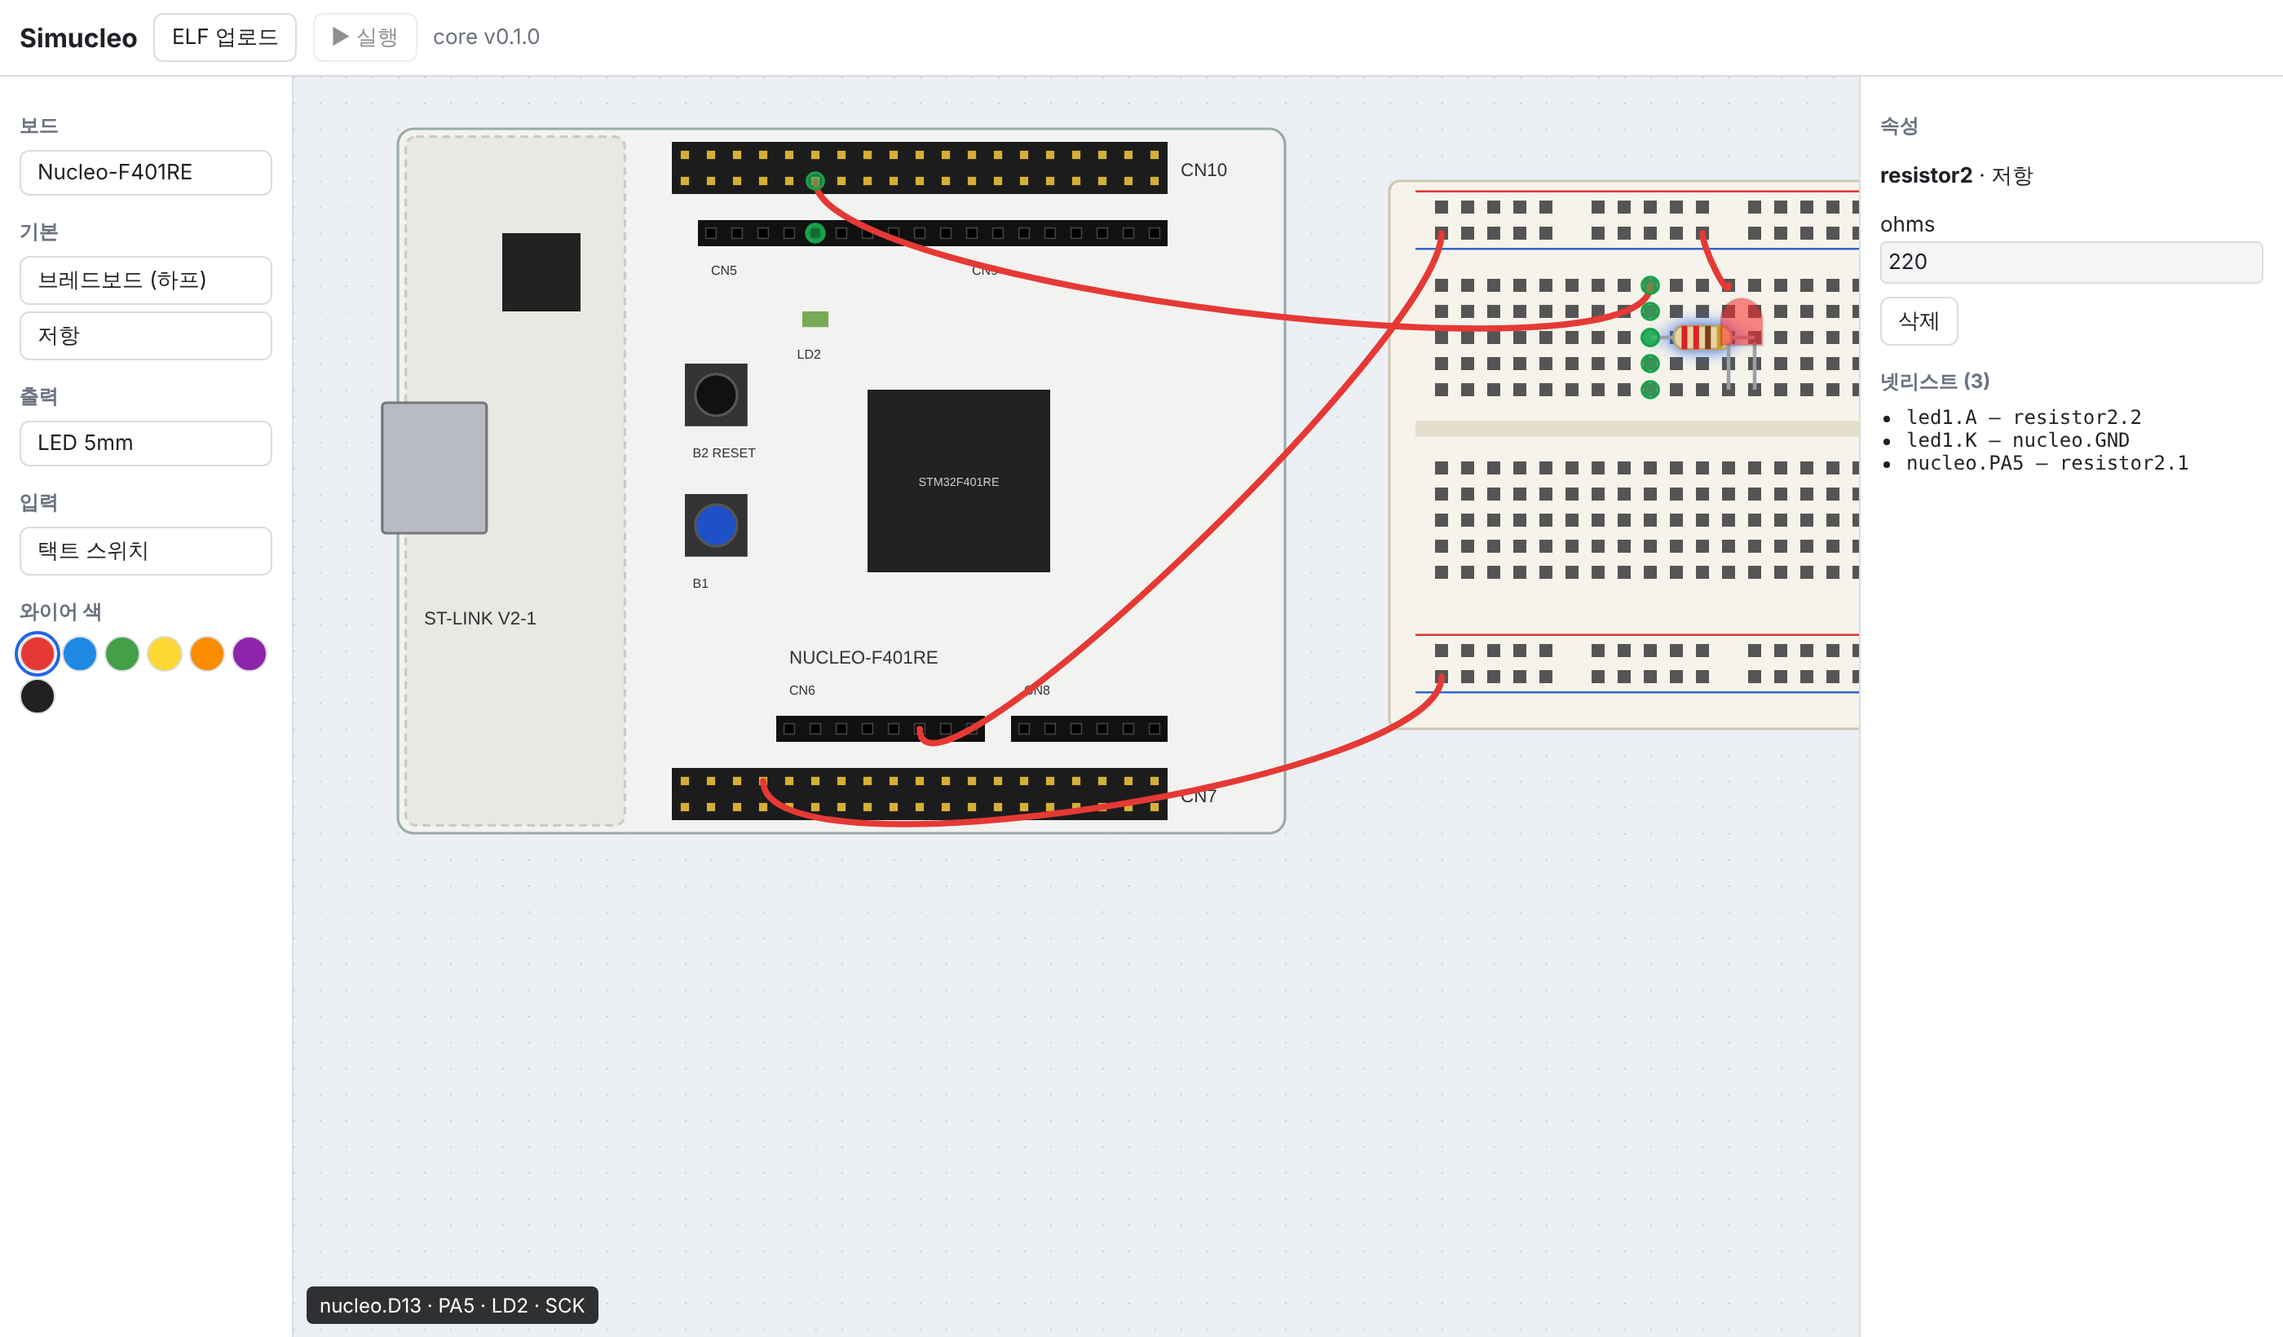
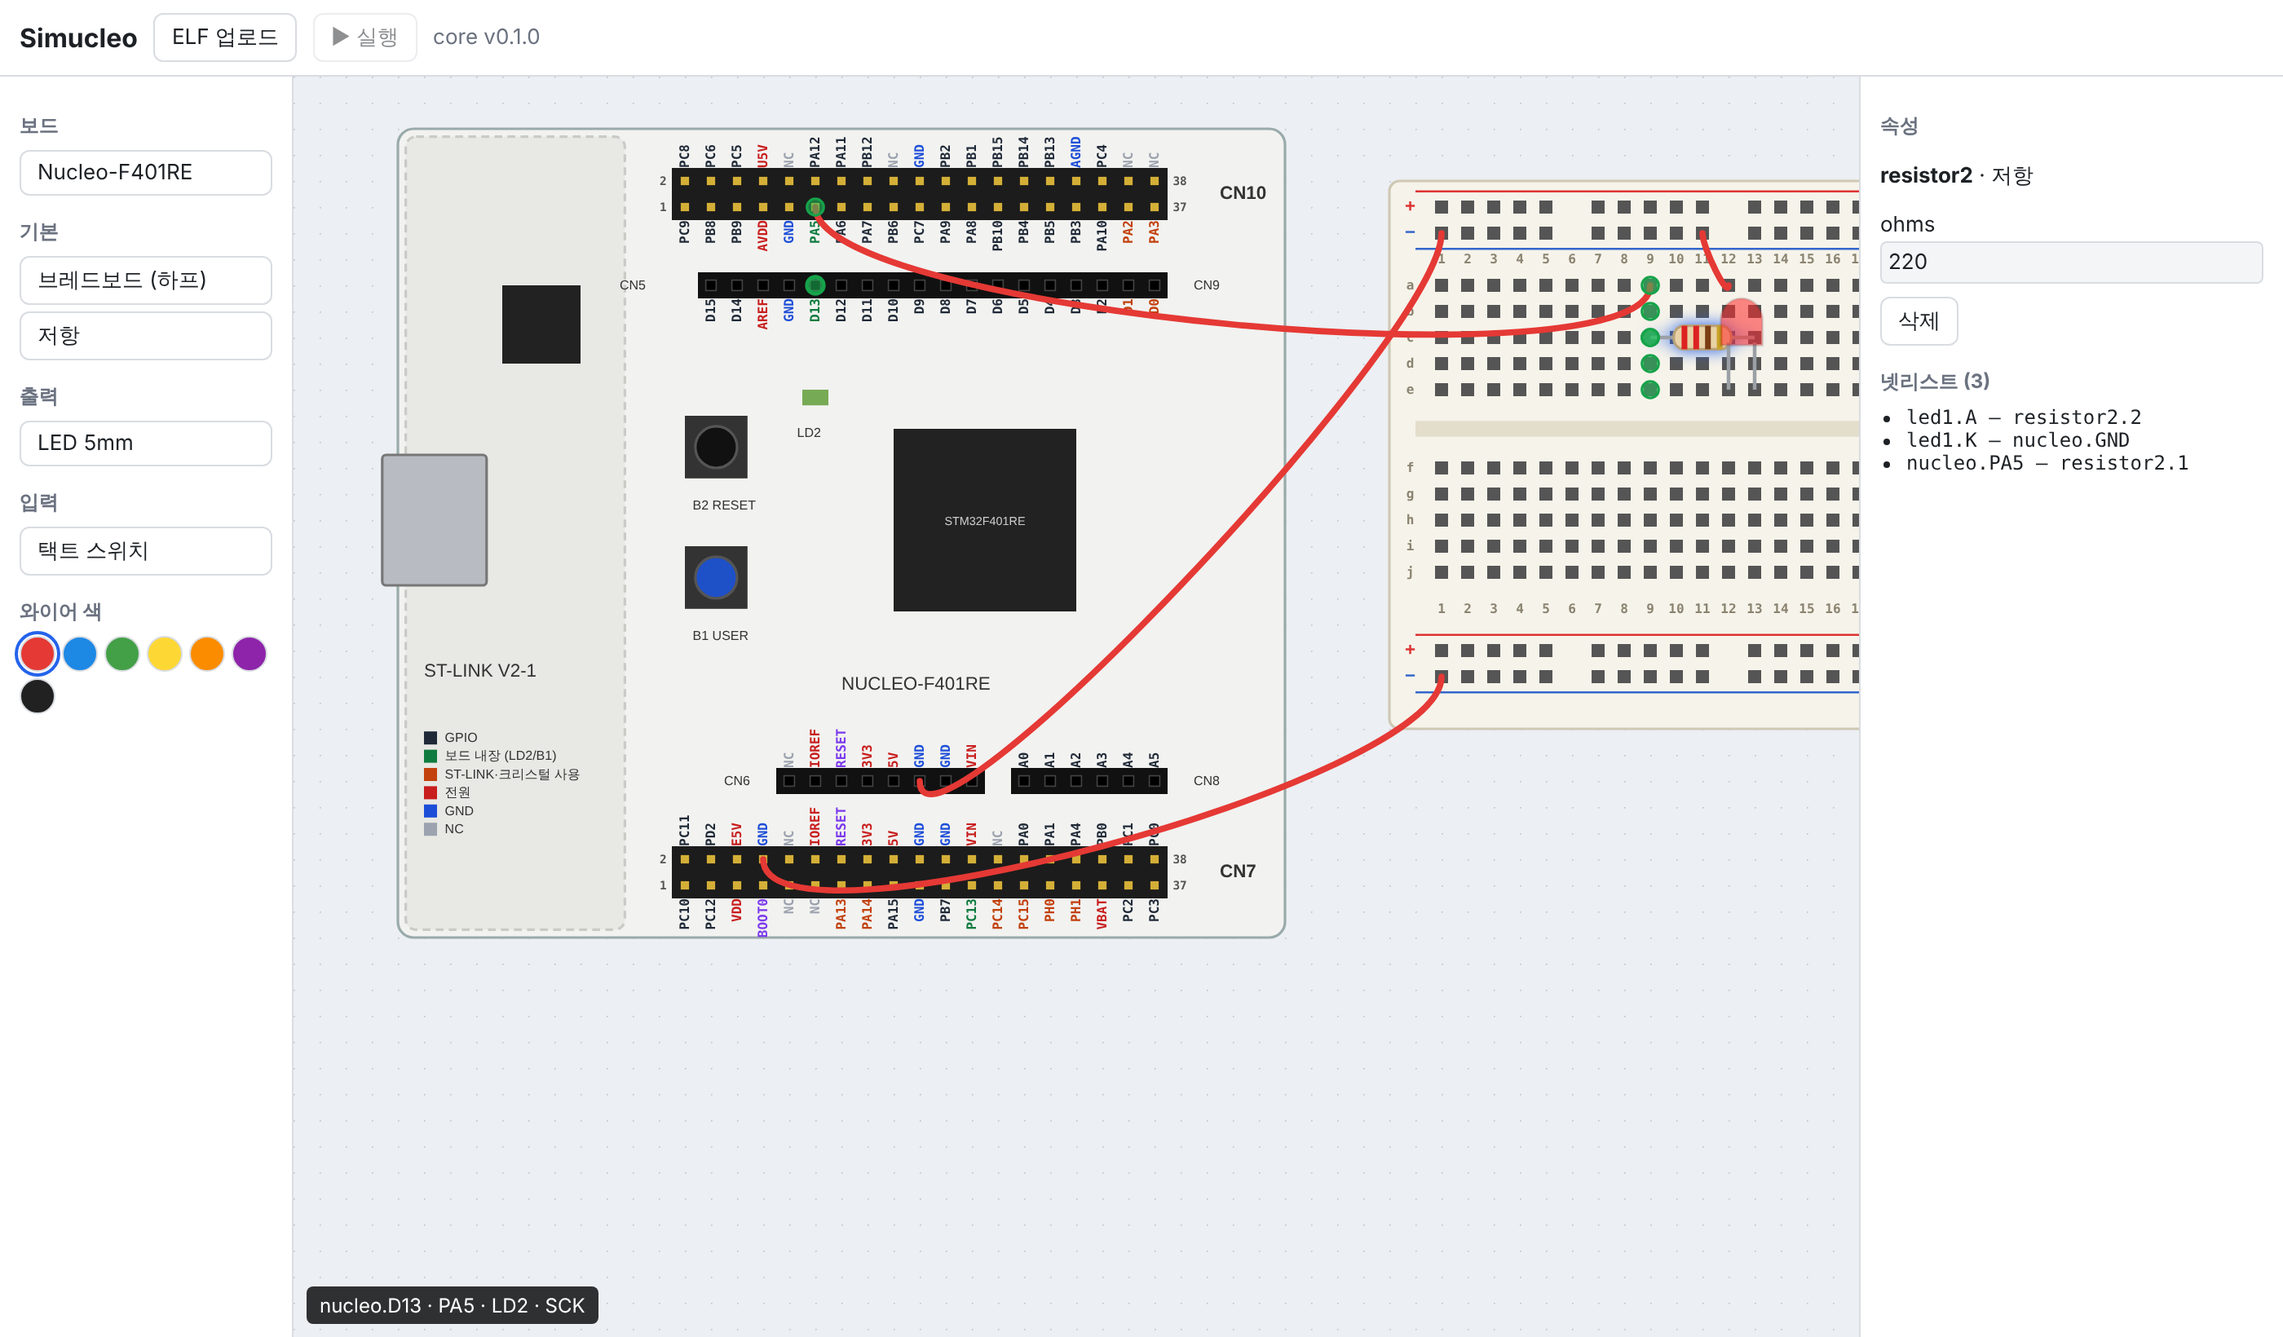
Show pin labels on the Nucleo board and breadboard
Print every header pin's name next to it like a silkscreen, so no separate
pin map is needed: MCU signal names on the Morpho headers, D/A names on the
Arduino headers, colour-coded by kind (GPIO, on-board, used by ST-LINK or
crystals, power, GND, NC) with a legend, and pin numbers at the header ends.
The breadboard gets row letters, column numbers and rail polarity marks.

Claude-Session: https://claude.ai/code/session_01UhgPm9977T5HrBfVKwY4mH

diff --git a/web/src/parts/nucleo.tsx b/web/src/parts/nucleo.tsx
@@ -69,37 +69,57 @@ const ARDUINO_BOTTOM: [string, string, string, number][] = [
 ];
 
 const W = 34;
-const H = 27;
+const H = 32;
 const X0 = 11; // grid x of header column 1
-const Y = { cn10Outer: 1, cn10Inner: 2, arduinoTop: 4, arduinoBottom: H - 4, cn7Inner: H - 2, cn7Outer: H - 1 };
+// Rows in grid steps. Gaps between rows hold the silkscreen labels.
+const Y = {
+  cn10Outer: 2, cn10Inner: 3, arduinoTop: 6,
+  arduinoBottom: H - 6, cn7Inner: H - 3, cn7Outer: H - 2,
+};
 
 const sig = (s: string) => SIGNAL_ALIAS[s] ?? s;
 const describe = (signal: string) => (NOTES[signal] ? `${signal} · ${NOTES[signal]}` : signal);
 
-function morpho(name: "CN7" | "CN10", rows: [string, string][], oddY: number, evenY: number): PinDef[] {
-  return rows.flatMap(([odd, even], i) => [
-    { id: `${name}_${2 * i + 1}`, x: X0 + i, y: oddY, signal: odd, label: `${name}-${2 * i + 1} · ${describe(odd)}` },
-    { id: `${name}_${2 * i + 2}`, x: X0 + i, y: evenY, signal: even, label: `${name}-${2 * i + 2} · ${describe(even)}` },
-  ]);
+type Side = "above" | "below";
+/** Silkscreen text printed next to each pin, and on which side of the pin. */
+const silk = new Map<string, { text: string; side: Side; signal: string }>();
+
+function morpho(
+  name: "CN7" | "CN10",
+  rows: [string, string][],
+  odd: { y: number; side: Side },
+  even: { y: number; side: Side },
+): PinDef[] {
+  return rows.flatMap(([o, e], i) =>
+    ([[2 * i + 1, o, odd], [2 * i + 2, e, even]] as const).map(([n, signal, row]) => {
+      const id = `${name}_${n}`;
+      silk.set(id, { text: signal, side: row.side, signal });
+      return { id, x: X0 + i, y: row.y, signal, label: `${name}-${n} · ${describe(signal)}` };
+    }),
+  );
 }
 
-function arduino(rows: [string, string, string, number][], y: number): PinDef[] {
-  return rows.map(([id, signal, extra, col]) => ({
-    id,
-    x: X0 + col - 1,
-    y,
-    signal,
-    label: [id.replace(/_.*/, ""), signal === id ? "" : describe(signal), extra].filter(Boolean).join(" · "),
-  }));
+function arduino(rows: [string, string, string, number][], y: number, side: Side): PinDef[] {
+  return rows.map(([id, signal, extra, col]) => {
+    const name = id.replace(/_.*/, "");
+    silk.set(id, { text: name, side, signal });
+    return {
+      id,
+      x: X0 + col - 1,
+      y,
+      signal,
+      label: [name, signal === id ? "" : describe(signal), extra].filter(Boolean).join(" · "),
+    };
+  });
 }
 
 const pins: PinDef[] = [
   // On the real board CN7's even column and CN10's odd column face the
   // Arduino headers; those are the columns that duplicate Arduino signals.
-  ...morpho("CN10", CN10, Y.cn10Inner, Y.cn10Outer),
-  ...morpho("CN7", CN7, Y.cn7Outer, Y.cn7Inner),
-  ...arduino(ARDUINO_TOP, Y.arduinoTop),
-  ...arduino(ARDUINO_BOTTOM, Y.arduinoBottom),
+  ...morpho("CN10", CN10, { y: Y.cn10Inner, side: "below" }, { y: Y.cn10Outer, side: "above" }),
+  ...morpho("CN7", CN7, { y: Y.cn7Outer, side: "below" }, { y: Y.cn7Inner, side: "above" }),
+  ...arduino(ARDUINO_TOP, Y.arduinoTop, "below"),
+  ...arduino(ARDUINO_BOTTOM, Y.arduinoBottom, "above"),
 ];
 
 // Bus every pin that shares a (normalised) signal; NC pins stay isolated.
@@ -117,6 +137,23 @@ export function nucleoSignal(pinId: string): string | undefined {
   return p && sig(p.signal!);
 }
 
+const POWER = new Set(["3V3", "5V", "VDD", "AVDD", "U5V", "E5V", "VIN", "IOREF", "VBAT"]);
+/** Pins already used by on-board circuitry (ST-LINK, crystals). */
+const BUSY = new Set(["PA2", "PA3", "PA13", "PA14", "PH0", "PH1", "PC14", "PC15"]);
+const ONBOARD = new Set(["PA5", "PC13"]);
+
+/** Colour class of a label, so students can tell power, ground and I/O apart. */
+function labelClass(signal: string): string {
+  const s = sig(signal);
+  if (s === "GND") return "lbl gnd";
+  if (POWER.has(s)) return "lbl pwr";
+  if (s === "NC") return "lbl nc";
+  if (s === "RESET" || s === "BOOT0") return "lbl ctl";
+  if (BUSY.has(s)) return "lbl busy";
+  if (ONBOARD.has(s)) return "lbl onboard";
+  return "lbl io";
+}
+
 const px = (g: number) => g * PITCH;
 const headerSpan = (cols: [number, number], y0: number, rows: number) => ({
   x: px(X0 + cols[0] - 1) - 5,
@@ -124,6 +161,39 @@ const headerSpan = (cols: [number, number], y0: number, rows: number) => ({
   width: px(cols[1] - cols[0]) + 10,
   height: px(rows - 1) + 10,
 });
+
+/** Vertical label: reads bottom-to-top, starting 0.6 grid away from the pin. */
+function PinLabel({ pin }: { pin: PinDef }) {
+  const s = silk.get(pin.id);
+  if (!s) return null;
+  const x = px(pin.x);
+  const y = px(pin.y) + (s.side === "above" ? -5 : 5);
+  return (
+    <text
+      transform={`translate(${x} ${y}) rotate(-90)`}
+      textAnchor={s.side === "above" ? "start" : "end"}
+      dominantBaseline="central"
+      className={labelClass(s.signal)}
+    >
+      {s.text}
+    </text>
+  );
+}
+
+/** Pin numbers at both ends of a Morpho header, like the real silkscreen. */
+function MorphoIndex({ name, oddY, evenY }: { name: string; oddY: number; evenY: number }) {
+  const left = px(X0 - 1) + 3;
+  const right = px(X0 + 19) - 3;
+  return (
+    <g className="pin-index">
+      <text x={left} y={px(oddY)} textAnchor="end" dominantBaseline="central">1</text>
+      <text x={left} y={px(evenY)} textAnchor="end" dominantBaseline="central">2</text>
+      <text x={right} y={px(oddY)} dominantBaseline="central">37</text>
+      <text x={right} y={px(evenY)} dominantBaseline="central">38</text>
+      <text x={px(X0 + 20.5)} y={px((oddY + evenY) / 2)} dominantBaseline="central" className="silk">{name}</text>
+    </g>
+  );
+}
 
 export const nucleoF401re: PartDef = {
   kind: "nucleo-f401re",
@@ -138,51 +208,64 @@ export const nucleoF401re: PartDef = {
       <rect width={px(W)} height={px(H)} rx={6} className="pcb" />
       {/* ST-LINK section */}
       <rect x={px(0.3)} y={px(0.3)} width={px(8.4)} height={px(H - 0.6)} rx={4} className="stlink-area" />
-      <rect x={px(-0.6)} y={px(10.5)} width={px(4)} height={px(5)} rx={1.5} className="usb" />
-      <text x={px(1)} y={px(19)} className="silk">ST-LINK V2-1</text>
-      <rect x={px(4)} y={px(4)} width={px(3)} height={px(3)} className="chip" />
+      <rect x={px(-0.6)} y={px(12.5)} width={px(4)} height={px(5)} rx={1.5} className="usb" />
+      <text x={px(1)} y={px(21)} className="silk">ST-LINK V2-1</text>
+      <rect x={px(4)} y={px(6)} width={px(3)} height={px(3)} className="chip" />
+      {/* Label colour legend */}
+      <g transform={`translate(${px(1)} ${px(23.5)})`} className="legend">
+        {[["io", "GPIO"], ["onboard", "보드 내장 (LD2/B1)"], ["busy", "ST-LINK·크리스털 사용"], ["pwr", "전원"], ["gnd", "GND"], ["nc", "NC"]].map(
+          ([cls, text], i) => (
+            <g key={cls} transform={`translate(0 ${i * 7})`}>
+              <rect width={5} height={5} y={-4} className={`swatch-${cls}`} />
+              <text x={8} className="silk small">{text}</text>
+            </g>
+          ),
+        )}
+      </g>
 
       {/* Morpho (male, 2×19) */}
       <rect {...headerSpan([1, 19], Y.cn10Outer, 2)} className="morpho" />
       <rect {...headerSpan([1, 19], Y.cn7Inner, 2)} className="morpho" />
-      <text x={px(X0 + 19)} y={px(1.8)} className="silk">CN10</text>
-      <text x={px(X0 + 19)} y={px(H - 1.2)} className="silk">CN7</text>
+      <MorphoIndex name="CN10" oddY={Y.cn10Inner} evenY={Y.cn10Outer} />
+      <MorphoIndex name="CN7" oddY={Y.cn7Outer} evenY={Y.cn7Inner} />
 
       {/* Arduino (female) */}
       <rect {...headerSpan([2, 11], Y.arduinoTop, 1)} className="arduino" />
       <rect {...headerSpan([12, 19], Y.arduinoTop, 1)} className="arduino" />
       <rect {...headerSpan([5, 12], Y.arduinoBottom, 1)} className="arduino" />
       <rect {...headerSpan([14, 19], Y.arduinoBottom, 1)} className="arduino" />
-      <text x={px(X0 + 1)} y={px(5.6)} className="silk small">CN5</text>
-      <text x={px(X0 + 11)} y={px(5.6)} className="silk small">CN9</text>
-      <text x={px(X0 + 4)} y={px(H - 5.3)} className="silk small">CN6</text>
-      <text x={px(X0 + 13)} y={px(H - 5.3)} className="silk small">CN8</text>
+      <text x={px(X0 - 1.5)} y={px(Y.arduinoTop)} dominantBaseline="central" textAnchor="end" className="silk small">CN5</text>
+      <text x={px(X0 + 19.5)} y={px(Y.arduinoTop)} dominantBaseline="central" className="silk small">CN9</text>
+      <text x={px(X0 + 2.5)} y={px(Y.arduinoBottom)} dominantBaseline="central" textAnchor="end" className="silk small">CN6</text>
+      <text x={px(X0 + 19.5)} y={px(Y.arduinoBottom)} dominantBaseline="central" className="silk small">CN8</text>
 
       {/* MCU and user I/O */}
-      <rect x={px(18)} y={px(10)} width={px(7)} height={px(7)} className="chip" />
-      <text x={px(21.5)} y={px(13.7)} className="silk chip-label">STM32F401RE</text>
-      <text x={px(15)} y={px(20.5)} className="silk">NUCLEO-F401RE</text>
-      <rect x={px(15.5)} y={px(7)} width={px(1)} height={px(0.6)} className="smd-led" />
+      <rect x={px(19)} y={px(11.5)} width={px(7)} height={px(7)} className="chip" />
+      <text x={px(22.5)} y={px(15.2)} className="silk chip-label">STM32F401RE</text>
+      <text x={px(17)} y={px(21.5)} className="silk">NUCLEO-F401RE</text>
+      <rect x={px(15.5)} y={px(10)} width={px(1)} height={px(0.6)} className="smd-led" />
       <rect
-        x={px(15.5)} y={px(7)} width={px(1)} height={px(0.6)}
+        x={px(15.5)} y={px(10)} width={px(1)} height={px(0.6)}
         className="smd-led-glow" style={{ opacity: visual.brightness ?? 0 }}
       />
-      <text x={px(15.3)} y={px(8.8)} className="silk small">LD2</text>
-      <rect x={px(11)} y={px(14)} width={px(2.4)} height={px(2.4)} className="btn-body" />
-      <circle cx={px(12.2)} cy={px(15.2)} r={px(0.8)} className="btn-cap blue" />
-      <text x={px(11.3)} y={px(17.6)} className="silk small">B1</text>
-      <rect x={px(11)} y={px(9)} width={px(2.4)} height={px(2.4)} className="btn-body" />
-      <circle cx={px(12.2)} cy={px(10.2)} r={px(0.8)} className="btn-cap" />
-      <text x={px(11.3)} y={px(12.6)} className="silk small">B2 RESET</text>
+      <text x={px(15.3)} y={px(11.8)} className="silk small">LD2</text>
+      <rect x={px(11)} y={px(16)} width={px(2.4)} height={px(2.4)} className="btn-body" />
+      <circle cx={px(12.2)} cy={px(17.2)} r={px(0.8)} className="btn-cap blue" />
+      <text x={px(11.3)} y={px(19.6)} className="silk small">B1 USER</text>
+      <rect x={px(11)} y={px(11)} width={px(2.4)} height={px(2.4)} className="btn-body" />
+      <circle cx={px(12.2)} cy={px(12.2)} r={px(0.8)} className="btn-cap" />
+      <text x={px(11.3)} y={px(14.6)} className="silk small">B2 RESET</text>
 
-      {pins.map((p) => {
-        const female = !p.id.startsWith("CN");
-        return female ? (
-          <rect key={p.id} x={px(p.x) - 2} y={px(p.y) - 2} width={4} height={4} className="socket" />
-        ) : (
+      {pins.map((p) =>
+        p.id.startsWith("CN") ? (
           <rect key={p.id} x={px(p.x) - 1.6} y={px(p.y) - 1.6} width={3.2} height={3.2} className="header-pin" />
-        );
-      })}
+        ) : (
+          <rect key={p.id} x={px(p.x) - 2} y={px(p.y) - 2} width={4} height={4} className="socket" />
+        ),
+      )}
+      {pins.map((p) => (
+        <PinLabel key={p.id} pin={p} />
+      ))}
     </g>
   ),
 };

diff --git a/web/src/parts/breadboard.tsx b/web/src/parts/breadboard.tsx
@@ -50,6 +50,30 @@ export const breadboardHalf: PartDef = {
       {pins.map((p) => (
         <rect key={p.id} x={p.x * PITCH - 2.5} y={p.y * PITCH - 2.5} width={5} height={5} className="hole" />
       ))}
+      {/* Column numbers above row a and below row j */}
+      {Array.from({ length: COLS }, (_, i) => i + 1).map((c) => (
+        <g key={c} className="bb-label">
+          <text x={(c + 1) * PITCH} y={3 * PITCH} textAnchor="middle" dominantBaseline="central">{c}</text>
+          <text x={(c + 1) * PITCH} y={16.4 * PITCH} textAnchor="middle" dominantBaseline="central">{c}</text>
+        </g>
+      ))}
+      {/* Row letters on both sides */}
+      {Object.entries(ROW_Y).map(([r, y]) => (
+        <g key={r} className="bb-label">
+          <text x={0.8 * PITCH} y={y * PITCH} textAnchor="middle" dominantBaseline="central">{r}</text>
+          <text x={(W - 0.8) * PITCH} y={y * PITCH} textAnchor="middle" dominantBaseline="central">{r}</text>
+        </g>
+      ))}
+      {/* Rail polarity */}
+      {Object.entries(RAIL_Y).map(([rail, y]) => {
+        const pos = rail.endsWith("p");
+        return (
+          <g key={rail} className="bb-rail" fill={pos ? "#d33" : "#36c"}>
+            <text x={0.8 * PITCH} y={y * PITCH} textAnchor="middle" dominantBaseline="central">{pos ? "+" : "−"}</text>
+            <text x={(W - 0.8) * PITCH} y={y * PITCH} textAnchor="middle" dominantBaseline="central">{pos ? "+" : "−"}</text>
+          </g>
+        );
+      })}
     </g>
   ),
 };

diff --git a/web/src/styles.css b/web/src/styles.css
@@ -61,6 +61,20 @@ main { grid-area: main; min-width: 0; min-height: 0; }
 .morpho { fill: #1c1c1c; }
 .arduino { fill: #111; }
 .header-pin { fill: #d4af37; }
+.lbl { font: 600 5px ui-monospace, "SF Mono", Menlo, monospace; pointer-events: none; }
+.lbl.io { fill: #1f2937; }
+.lbl.onboard { fill: #0f7b3f; }
+.lbl.busy { fill: #c2410c; }
+.lbl.pwr { fill: #c81e1e; }
+.lbl.gnd { fill: #1d4ed8; }
+.lbl.ctl { fill: #7c3aed; }
+.lbl.nc { fill: #9ca3af; }
+.swatch-io { fill: #1f2937; } .swatch-onboard { fill: #0f7b3f; } .swatch-busy { fill: #c2410c; }
+.swatch-pwr { fill: #c81e1e; } .swatch-gnd { fill: #1d4ed8; } .swatch-nc { fill: #9ca3af; }
+.pin-index text { font: 600 4.5px ui-monospace, monospace; fill: #555; }
+.pin-index .silk { font: 600 7px sans-serif; fill: #333; }
+.bb-label { font: 600 5px ui-monospace, monospace; fill: #8a8370; pointer-events: none; }
+.bb-rail { font: 700 7px sans-serif; pointer-events: none; }
 .socket { fill: #000; stroke: #444; stroke-width: 0.5; }
 .smd-led { fill: #7a5; }
 .smd-led-glow { fill: #3f3; }

diff --git a/docs/adr/0004-wiring-editor.md b/docs/adr/0004-wiring-editor.md
@@ -7,6 +7,7 @@
 - 0.1인치 그리드. 서로 다른 부품의 핀이 같은 점에 있으면 연결된다(리드를 브레드보드에 꽂는 동작).
 - 부품 내부 연결(브레드보드 행·레일, 스위치 단자, Nucleo의 같은 신호 핀)은 `buses`로 선언한다.
 - Nucleo 보드는 **Arduino 헤더와 Morpho 헤더(CN7/CN10)를 모두** 제공한다. 같은 MCU 신호 핀끼리는 내부 버스로 묶는다.
+- **핀 정보는 별도 핀맵 문서 없이 GUI에 표시**한다. 실제 보드의 실크스크린처럼 모든 헤더 핀 옆에 이름(Morpho는 MCU 신호명, Arduino는 D/A 이름)을 쓰고, 종류별 색상(GPIO, 보드 내장, ST-LINK/크리스털 사용, 전원, GND, NC)과 범례, 헤더 양 끝 핀 번호(1/2, 37/38)를 넣는다. 브레드보드에도 행 문자(a–j), 열 번호, 레일 극성을 표시하고, 마우스를 올리면 `CN10-11 · PA5 · LD2 · SCK` 같은 상세 정보를 보여 준다.
 - **실행 중 배선 변경(hot-plug)을 허용**한다. 편집할 때마다 Circuit JSON을 코어에 다시 보내고, 코어는 넷리스트를 다시 만든다.
 - 부품 그래픽은 직접 제작한다. CC-BY-SA 부품 라이브러리와 제조사 로고는 사용하지 않는다.
 
